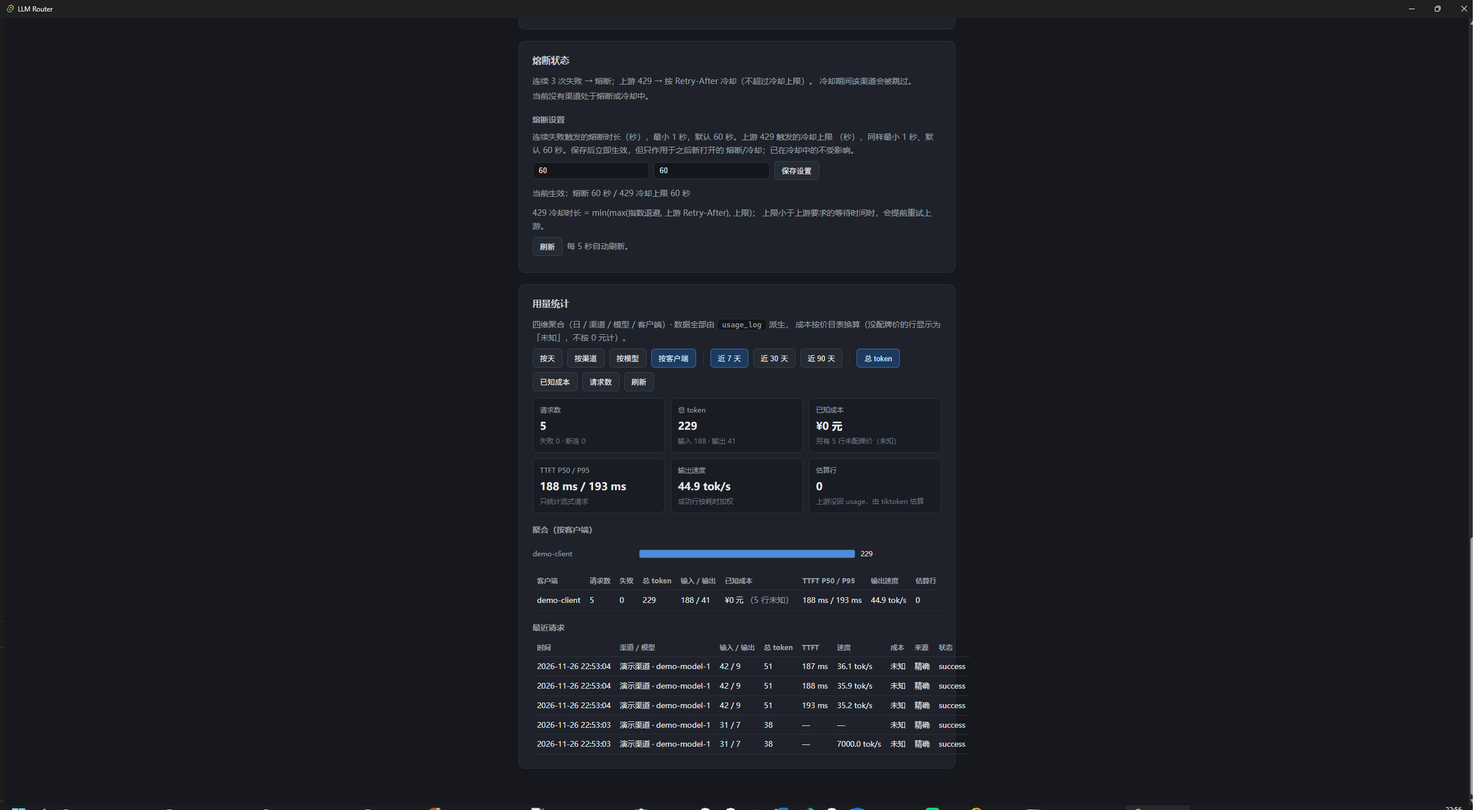
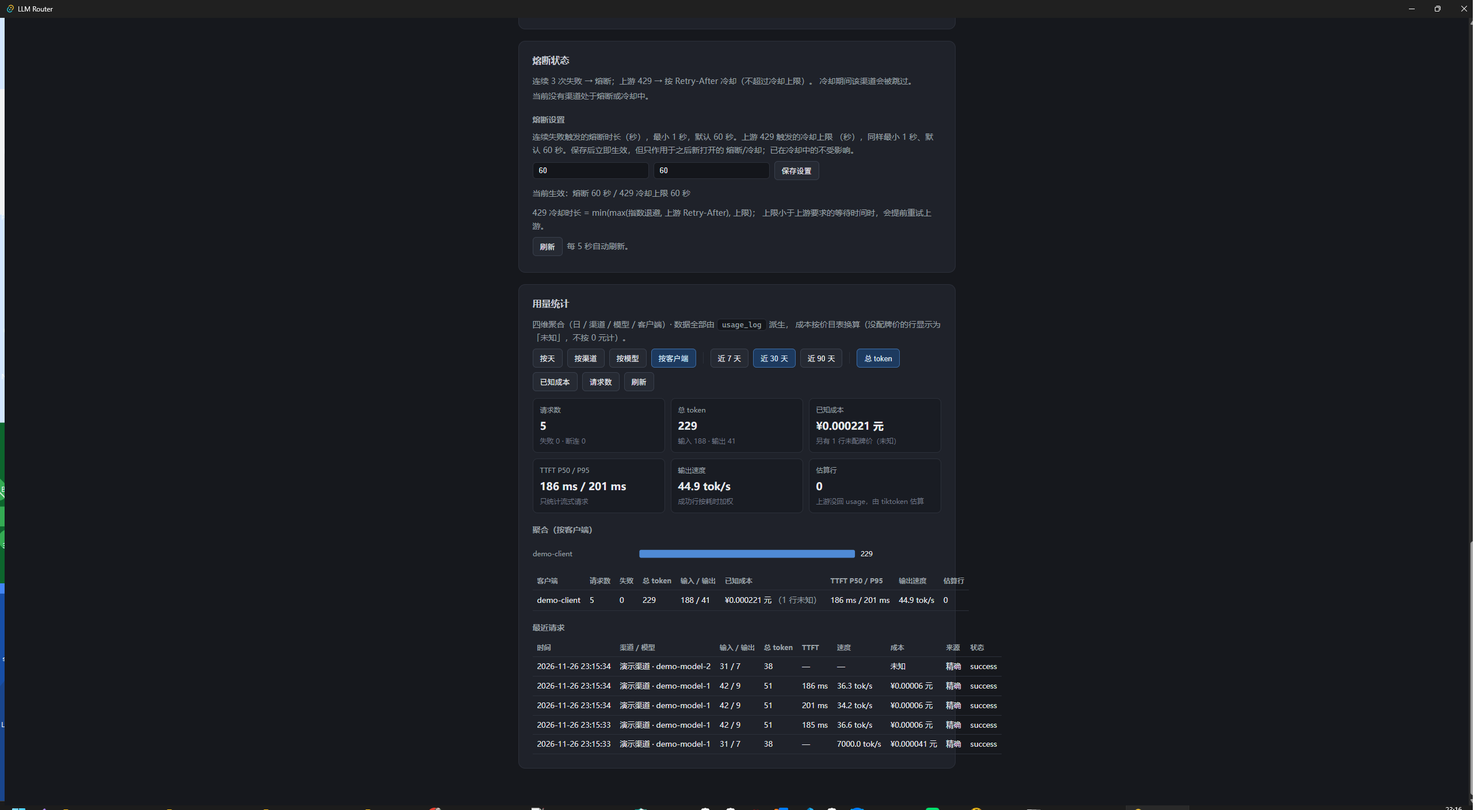
docs: M2 里程碑汇报 + T14 真机证据补强（配价/未配价双模型）
M2 判据（03 §1）一条复合句拆成 6 个可验证子项，逐条实测通过：
流式请求 / tokens / TTFT / tokens·s⁻¹ / 估算成本 / usage_log.estimated 标记。
汇报件按 M1 模板成文，为 M2 结论的唯一权威载体。

- 新增 docs/reviews/M2-milestone-report.md（判据对照 / 覆盖任务 / 顺带事项 / 已知限制 / 下一步 M3）
- 补强 T14 真机证据：演示环境改为「配价 demo-model-1 + 未配价 demo-model-2」同屏对照，
  证明 UI 渲染真实金额（已知成本 ¥0.000221 元）且未配牌价行显示「未知」而非 ¥0
- 更新四张真机截图（app-ui-usage.png / -channel / -model / -client）
- seed_usage_demo 补第二个模型与一条价目，并多打印一条对照 curl 示例
- 口径对齐：T14 留档 §1 判据表、03 落地行、HANDOFF §8 T14 行的 TTFT/成本/速度实测值统一到本轮真机数据
- HANDOFF 新增第 17 步与 §8「M2 里程碑状态：判据全绿」行

验证：cargo test 全量回归全绿；cargo build --example seed_usage_demo 通过；
npm run build 通过（gzip 56.38 kB）；前端单测 10/10。

diff --git a/src-tauri/examples/seed_usage_demo.rs b/src-tauri/examples/seed_usage_demo.rs
@@ -96,7 +96,7 @@ async fn main() -> Result<(), Box<dyn std::error::Error>> {
     let store = Arc::new(Store::open(&store_path)?);
     let vault = Vault::open(Arc::clone(&store), &vault_path, None)?;
 
-    // ── 4. 种渠道 + 模型 + 凭证 ──
+    // ── 4. 种渠道 + 模型 + 凭证 + 价目 ──
     let meta = format!(
         r#"{{"path_chat":"{MOCK_CHAT_PATH}","extra_headers":{{"HTTP-Referer":"https://github.com/benntqoo/llm-router","X-Title":"LLM Router"}}}}"#
     );
@@ -106,12 +106,32 @@ async fn main() -> Result<(), Box<dyn std::error::Error>> {
              VALUES ('c-demo', '演示渠道', 'api_key', 'custom', ?1, 1, 100, ?2, ?3)",
             rusqlite::params![mock_base, llm_router_lib::vault::now_secs(), meta],
         )?;
+        // demo-model-1：**配了价** → UI 上能看到真实金额
         conn.execute(
             "INSERT INTO model (id, channel_id, upstream_id, alias, enabled)
              VALUES ('m-demo', 'c-demo', 'demo-model-1', 'demo-chat', 1)",
             [],
         )?;
+        // demo-model-2：**没配价** → 成本为 NULL（未知），用来对照 02 §8.3 的 0/NULL 语义
+        conn.execute(
+            "INSERT INTO model (id, channel_id, upstream_id, alias, enabled)
+             VALUES ('m-demo-2', 'c-demo', 'demo-model-2', 'demo-chat-2', 1)",
+            [],
+        )?;
         Ok(())
+    })?;
+    // 测试价：输入 1 元/1M、输出 2 元/1M、缓存命中 0.1 元/1M
+    store.with_conn(|conn| {
+        llm_router_lib::store::price::upsert(
+            conn,
+            &llm_router_lib::store::price::PriceEntry {
+                provider: "custom".to_string(),
+                model_pattern: "demo-model-1".to_string(),
+                input_per_1m: 1_000_000,
+                output_per_1m: 2_000_000,
+                cache_read_per_1m: 100_000,
+            },
+        )
     })?;
     vault.put_credential(
         "c-demo",
@@ -145,6 +165,10 @@ async fn main() -> Result<(), Box<dyn std::error::Error>> {
     println!("[demo] 打网关（流式，看 TTFT）：");
     println!(
         "  curl -s -N http://127.0.0.1:18787/v1/chat/completions -H \"Authorization: Bearer {client_key}\" -H \"Content-Type: application/json\" -d '{{\"model\":\"demo-chat\",\"messages\":[{{\"role\":\"user\",\"content\":\"hi\"}}],\"stream\":true}}'"
+    );
+    println!("[demo] 打网关（**没配牌价**的模型 → 成本显示「未知」）：");
+    println!(
+        "  curl -s http://127.0.0.1:18787/v1/chat/completions -H \"Authorization: Bearer {client_key}\" -H \"Content-Type: application/json\" -d '{{\"model\":\"demo-chat-2\",\"messages\":[{{\"role\":\"user\",\"content\":\"hi\"}}]}}'"
     );
     println!();
     println!("[demo] mock 上游运行中，Ctrl+C 结束。");

diff --git a/HANDOFF.md b/HANDOFF.md
@@ -64,6 +64,7 @@
 第 14 步：~~T11 安全验收~~ ✅（02 §10.2 四条判据全过；补上了 §5.2 承诺但一直没接的日志脱敏中间件；留档 `docs/reviews/security-check-m1.md`）
 第 15 步：M1 全绿（03 §1 判据）→ 向头头汇报，再进 M2 —— **M1 判据 ②③④ 已验；① 的真实 DeepSeek 部分按头头决定挂起**，汇报件 `docs/reviews/M1-milestone-report.md`
 第 16 步：~~T12 本地估算器~~ ✅（产线默认换成 tiktoken-rs；"无 usage 走估算路径"e2e + 真机双证；留档 `docs/reviews/T12-token-estimator.md`）；~~T13 价目表与成本换算~~ ✅（三价换算 + 47 行预填牌价 + 真实上游实测；留档 `docs/reviews/T13-price-and-cost.md`）；~~T14 聚合与图表 UI~~ ✅（四维聚合 + SVG 图表 + 用量面板；M2 判据全过；留档 `docs/reviews/T14-usage-aggregation.md`）—— **M2 三张卡齐了**，下一步进 M3（可签到）
+第 17 步：**M2 里程碑汇报** —— 判据（03 §1）一条拆成 6 个子项，**逐条实测全绿**（流式请求 ✓ / tokens ✓ / TTFT ✓ / tokens·s⁻¹ ✓ / 估算成本 ✓ / `estimated` 标记 ✓），汇报件 `docs/reviews/M2-milestone-report.md`；**未做项**：价目表编辑 UI（另排一张卡）
 ```
 
 排期基准 6 周（03 §4）。滞后处理按 03 §5 降级预案，不擅自砍范围。
@@ -132,7 +133,8 @@
 | ✅ | **T11 安全验收**（02 §10.2 四条判据全过）：① 库内明文（dump + 主库 + WAL/SHM 三层扫描，**明文凭证命中 0**）；② `vault.bin` 三重扫描 0 命中；③ 日志敏感键**全部脱敏为 `***`**（本轮补上了 §5.2 承诺但一直没接的 `gateway::logging::request_log` 中间件）；④ 绑定策略（无 client key ⇒ 拒绝启动且端口不监听；有 client key ⇒ 允许改绑）。四条判据固化为只读执行器 `scripts/security_check.py` | 留档 `docs/reviews/security-check-m1.md`；02 §10.2 执行口径 + §1.2（v0.10）；回归 `cargo test` 291 项全绿 |
 | ✅ | **T12 本地估算器**（M2 第一张卡）：产线默认估算器由**字符启发式**换成 **tiktoken-rs**（`gateway::estimator::TiktokenEstimator`；编码表 crate 内嵌、运行期不联网）；编码选择 o200k 家族走 `o200k_base`、其余（含全部国产模型）走 `cl100k_base`；`is_approximation(model)` 把"国产模型只能近似"写成可查询事实。口径细化：**上游缺一项 → 只补缺的那一项**（"缺失"= 没有该键，值为 0 不算缺失），上游已给的精确值**一律不被覆盖**（R7），估算值一律 `estimated=1`、不参与预算告警。验收判据"无 usage 渠道强制走估算路径"**e2e + 真机双证通过** | 留档 `docs/reviews/T12-token-estimator.md`；02 §8.1 估算入口细化 + §13（v0.11）；回归 `cargo test` 299 项全绿；代价：二进制 24.2 → 32.2 MB |
 | ✅ | **T13 价目表与成本换算**（M2 第二张卡）：新增 `store::price`（查表 / `*` 通配匹配 / **三价换算** / CRUD / 播种 / 改价后重算历史）与 `commands::price`（IPC 列/改/删/重算/试算）；`insert_usage` **落库时**算出 `cost_micros`；v8 迁移播种 **47 行**预填牌价（`deepseek`/`kimi`/`glm`/`dashscope`/`minimax_cn`/`siliconflow` 六家，**取自厂商官方页面**，快照 2026-11-26，`INSERT OR IGNORE` 不覆盖用户改过的价）。口径（02 §8.3）：缓存命中有独立档价**只计一次**（它已含在 `prompt_tokens` 里）、缓存写按输入价、**总额**四舍五入一次、**`0`（免费）与 `NULL`（未配置）必须可区分**、估算行照样算成本、改价后历史一并重算 | 留档 `docs/reviews/T13-price-and-cost.md`；02 §8.3 + §13（v0.13）；证据：**单测 12 条 + e2e 真网关全链（三价同时参与，`cost_micros == Some(108)`）+ 真机**（真实二进制 → schema v8 → 查库 47 行）+ **真实上游**（OpenRouter 免费模型真上游，真实 token 数 → `cost_micros` 与**独立复算**逐笔一致：536/64/491/509 micros）四证；回归 `cargo test` **321 项全绿**（e2e 6→7），0 失败 0 告警；**已知限制**：多档定价（分段/峰谷/priority）三价表达不了、`minimax_intl` 按 USD 计价不折算 → 不预填、OpenRouter 免费档 429 限流重；提交 `33dbe34`（真实上游实测夹具 `7c8d168` + 夹具假绿修复 `902af5d`，默认 ignore） |
-| ✅ | **T14 聚合与图表 UI**（M2 收尾卡）：新增 `store::analytics`（四维聚合：日 / 渠道 / 模型 / 客户端，每桶 13 项指标——请求数 / 三态计数 / 五类 token / 总 token / **已知成本合计** / **成本未知行数** / 估算行数 / TTFT P50·P95 / 输出速度；分位用**最近秩法**；输出速度按耗时加权，**耗时为 0 → NULL**）+ `commands::usage`（`usage_aggregate` / `usage_recent` 两个 IPC）；新增 `src/usage/`（**手写 SVG** 条形图 + 用量统计面板：维度 / 时间窗 / 度量切换 + KPI + 聚合表 + 最近请求明细），**不引第三方图表库**（gzip 56.38 kB，包体不变）。口径细化（02 §8.4）：**「已知成本合计为 0」不等于「不花钱」**（未配牌价的行单独计数）、**合计桶不受桶数上限影响**、**可空列 COALESCE 成 (未记录)**、**聚合在后端、前端只做展示**（同源纪律） | 留档 `docs/reviews/T14-usage-aggregation.md`；02 §8.4 + §13（v0.14）；证据：**后端单测 17 条 + e2e 真网关全链 1 条**（流式+非流式 → 四维聚合逐项对账，速度按该行自己的耗时复算）+ **前端单测 10 条**（`node --test`，含「成本 NULL → 未知 ≠ ¥0」）+ **真机**（真实应用 → 真网关 → mock 上游 5 次请求 → 5 行流水 → 面板显示 tokens 229 / TTFT P50·P95 = 188·193 ms / 44.9 tok·s⁻¹ / 成本 ¥0（5 行未知）/ 来源「精确」；**四个维度逐一截图** `docs/reviews/app-ui-usage*.png`）四证；回归 `cargo test` **340 项全绿**（e2e 7→8），0 失败 0 告警，`npm run build` 通过；提交 `9820bb1`（后端）+ `3251e62`（**顺带修掉一条既有随机失败断言**：client key 长度恒为 43 → 实为 42~43）；**已知限制**：**价目表编辑 UI 不在本卡**（任务卡只写聚合 + 图表，M2 判据只需成本可显示），另排一张卡 |
+| ✅ | **T14 聚合与图表 UI**（M2 收尾卡）：新增 `store::analytics`（四维聚合：日 / 渠道 / 模型 / 客户端，每桶 13 项指标——请求数 / 三态计数 / 五类 token / 总 token / **已知成本合计** / **成本未知行数** / 估算行数 / TTFT P50·P95 / 输出速度；分位用**最近秩法**；输出速度按耗时加权，**耗时为 0 → NULL**）+ `commands::usage`（`usage_aggregate` / `usage_recent` 两个 IPC）；新增 `src/usage/`（**手写 SVG** 条形图 + 用量统计面板：维度 / 时间窗 / 度量切换 + KPI + 聚合表 + 最近请求明细），**不引第三方图表库**（gzip 56.38 kB，包体不变）。口径细化（02 §8.4）：**「已知成本合计为 0」不等于「不花钱」**（未配牌价的行单独计数）、**合计桶不受桶数上限影响**、**可空列 COALESCE 成 (未记录)**、**聚合在后端、前端只做展示**（同源纪律） | 留档 `docs/reviews/T14-usage-aggregation.md`；02 §8.4 + §13（v0.14）；证据：**后端单测 17 条 + e2e 真网关全链 1 条**（流式+非流式 → 四维聚合逐项对账，速度按该行自己的耗时复算）+ **前端单测 10 条**（`node --test`，含「成本 NULL → 未知 ≠ ¥0」）+ **真机**（真实应用 → 真网关 → mock 上游 5 次请求 → 5 行流水 → 面板显示 tokens 229 / TTFT P50·P95 = 186·201 ms / 44.9 tok·s⁻¹ / 成本 ¥0.000221 元（另有 1 行未知）/ 来源「精确」；**四个维度逐一截图** `docs/reviews/app-ui-usage*.png`）四证；回归 `cargo test` **340 项全绿**（e2e 7→8），0 失败 0 告警，`npm run build` 通过；提交 `9820bb1`（后端 + 口径）+ `60fe9aa`（前端）+ `3251e62`（**顺带修掉一条既有随机失败断言**：client key 长度恒为 43 → 实为 42~43）+ `b598d63`（留档）；**已知限制**：**价目表编辑 UI 不在本卡**（任务卡只写聚合 + 图表，M2 判据只需成本可显示），另排一张卡 |
+| ✅ | **M2 里程碑状态：判据全绿**（03 §1 的一条判据拆成 6 个子项，**逐条实测通过**：① 流式请求 ② tokens ③ TTFT ④ tokens·s⁻¹ ⑤ 估算成本 ⑥ `usage_log.estimated` 标记）。M2 三张卡 **T12 / T13 / T14** 全部完成并各自留档；T12 补上了"上游没回 usage → `estimated=1`"的反向证据，T13 把成本换算推进到**真实上游**实测，T14 提供呈现载体。**汇报件见 `docs/reviews/M2-milestone-report.md`**（M2 结论的唯一权威载体） | 03 §1 判据；T12 `docs/reviews/T12-token-estimator.md`、T13 `docs/reviews/T13-price-and-cost.md`、T14 `docs/reviews/T14-usage-aggregation.md`；真机四张截图 `docs/reviews/app-ui-usage*.png`；**未做项**：价目表编辑 UI（任务卡只写聚合 + 图表，M2 判据只需成本可显示）→ 另排一张卡 |
 | 🟡 | **M1 里程碑状态：判据 ②③④ 已验通过；① 的真实 DeepSeek 部分挂起**（头头决定先不测真实上游，与 T10 真实矩阵同一前提）。**汇报件见 `docs/reviews/M1-milestone-report.md`** | 03 §1 判据；解除条件 = 拿到任一 A 类渠道真实 API Key（一把钥匙同时解锁 T10 真实矩阵与 M1 判据 ①） |
 | ✅ | **AGENT.md §9 安全验收正则口径**（头头 2026-11-26 裁决：改为指向执行器）。§9 保留四条判据语义，**执行统一走只读执行器** `scripts/security_check.py`，并写明"明文凭证命中必须为 0 / 结构性命中逐条列出"的分类口径；原命令三处与现实不符之处（正则恒命中 `api_key`、`strings` 是 Unix 工具、`grep logs/` 而应用不落日志文件）一并清掉 | 留档 `docs/reviews/security-check-m1.md` §4 + §4.1（含在**用户真实库**与**已录密钥的验证库**上的实跑留档，退出码 0）；02 §10.2 执行口径 |
 | ✅ | **02 §6.1 标题"8 profile"** → 已按事实改为 **"7 profile"**（表体 7 行；T4/T8/UI/T8 任务卡均按 7 个落地，03 T8 卡片写的也是"7 个 profile"） | 头头 2026-11-26 裁决；02 §6.1 |

diff --git a/docs/reviews/T14-usage-aggregation.md b/docs/reviews/T14-usage-aggregation.md
@@ -23,9 +23,9 @@
 | 1 | **四维聚合**（按天 / 渠道 / 模型 / 客户端） | ✅ | §3.2 e2e 逐维度断言；§3.4 真机**四个维度逐一截图** |
 | 2 | **React 图表** | ✅ | §3.4 真机：手写 SVG 条形图（三种度量可切） |
 | 3 | UI 显示 **tokens** | ✅ | KPI「总 token **229**（输入 188 · 输出 41）」+ 明细表逐行 |
-| 4 | UI 显示 **TTFT** | ✅ | KPI「TTFT P50 / P95 = **188 ms / 193 ms**」；明细表 187 / 188 / 193 ms，**非流式显示「—」** |
-| 5 | UI 显示 **tokens·s⁻¹** | ✅ | KPI「输出速度 **44.9 tok/s**」；明细表 36.1 / 35.9 / 35.2 tok/s |
-| 6 | UI 显示 **估算成本** | ✅ | KPI「已知成本 **¥0 元**（另有 5 行未配牌价（未知））」——**未知的行不会被当成 0 元** |
+| 4 | UI 显示 **TTFT** | ✅ | KPI「TTFT P50 / P95 = **186 ms / 201 ms**」；明细表 185 / 186 / 201 ms，**非流式显示「—」** |
+| 5 | UI 显示 **tokens·s⁻¹** | ✅ | KPI「输出速度 **44.9 tok/s**」；明细表 36.6 / 36.3 / 34.2 tok/s（流式三行） |
+| 6 | UI 显示 **估算成本** | ✅ | KPI「已知成本 **¥0.000221 元**（另有 1 行未配牌价（未知））」——**有真实金额**，且**未知的行不会被当成 0 元**（明细表里 ¥0.00006 / ¥0.000041 元与「未知」并存） |
 | 7 | `usage_log.estimated` 标记正确（上游有 usage 时为 0） | ✅ | 明细表「来源」列全部显示**精确**；KPI「估算行 **0**」；库内 `estimated=0` |
 
 ## 2. 做了什么摘要
@@ -89,25 +89,38 @@
 
 ### 3.4 真机（真实应用 + 真网关 + mock 上游）
 
-用 `src-tauri/examples/seed_usage_demo.rs`（新）一键准备：种临时库（渠道 + 模型 + 凭证 + client key）并起一个 mock 上游（`127.0.0.1:55893`）。**库与保险库都指向 `%TEMP%\llmr-t14-demo\`，不污染用户真实库。**
+用 `src-tauri/examples/seed_usage_demo.rs`（新）一键准备：种临时库（渠道 + **两个模型** + 凭证 + client key + 一条价目）并起一个 mock 上游（`127.0.0.1:63582`）。**库与保险库都指向 `%TEMP%\llmr-t14-demo2\`，不污染用户真实库。**
+
+演示环境刻意做成**「有价 + 无价」两个模型**，一次把两件事都验实：
+
+| 模型 | 价目 | 用途 |
+|---|---|---|
+| `demo-model-1`（别名 `demo-chat`） | **配了**：输入 1 元/1M、输出 2 元/1M、缓存命中 0.1 元/1M | 让 UI 显示**真实金额** |
+| `demo-model-2`（别名 `demo-chat-2`） | **没配** | 让 UI 显示**「未知」**（02 §8.3 的 `NULL` 语义） |
 
 应用实跑日志：
 
 ```
-[store] 数据库 %TEMP%\llmr-t14-demo\store.db（schema v8）
-[vault] 保险库 %TEMP%\llmr-t14-demo\vault.bin（主密钥 v1）
+[store] 数据库 %TEMP%\llmr-t14-demo2\store.db（schema v8）
+[vault] 保险库 %TEMP%\llmr-t14-demo2\vault.bin（主密钥 v1）
 [gateway] 监听 http://127.0.0.1:18787/v1（OpenAI 兼容入站）
 ```
 
-经**真网关**打 5 次（2 次非流式 + 3 次流式），库里 5 行流水：
+经**真网关**打 5 次（3 次流式 + 1 次非流式走配价模型 + 1 次非流式走**未配价**模型），库里 5 行流水：
 
-| id | alias | prompt | completion | cache_read | estimated | ttft_ms | duration_ms | status | cost_micros |
+| id | 上游模型 | prompt | completion | cache_read | estimated | ttft_ms | duration_ms | status | cost_micros |
 |---|---|---|---|---|---|---|---|---|---|
-| 1 | demo-chat | 31 | 7 | 5 | **0** | NULL | 1 | success | **NULL** |
-| 2 | demo-chat | 31 | 7 | 5 | **0** | NULL | 0 | success | **NULL** |
-| 3 | demo-chat | 42 | 9 | 0 | **0** | **193** | 256 | success | **NULL** |
-| 4 | demo-chat | 42 | 9 | 0 | **0** | **188** | 251 | success | **NULL** |
-| 5 | demo-chat | 42 | 9 | 0 | **0** | **187** | 249 | success | **NULL** |
+| 1 | demo-model-1 | 31 | 7 | 5 | **0** | NULL | 1 | success | **41** |
+| 2 | demo-model-1 | 42 | 9 | 0 | **0** | **185** | 246 | success | **60** |
+| 3 | demo-model-1 | 42 | 9 | 0 | **0** | **201** | 263 | success | **60** |
+| 4 | demo-model-1 | 42 | 9 | 0 | **0** | **186** | 248 | success | **60** |
+| 5 | **demo-model-2** | 31 | 7 | 5 | **0** | NULL | 0 | success | **NULL（未知）** |
+
+成本独立复算（测试价：输入 1 元/1M、输出 2 元/1M、缓存命中 0.1 元/1M）：
+
+- 第 1 行：可计费输入 = 31 − 5 = 26 → `26×1 + 7×2 + 5×0.1 = 40.5` → **41 micros** ✅
+- 第 2–4 行：`42×1 + 9×2 = 60` → **60 micros** ✅
+- 第 5 行：没配牌价 → **NULL（未知）**，不是 0 ✅
 
 UI 实测（截图见 `docs/reviews/app-ui-usage*.png`）：
 
@@ -115,12 +128,12 @@ UI 实测（截图见 `docs/reviews/app-ui-usage*.png`）：
 |---|---|
 | KPI 请求数 | **5**（失败 0 · 断连 0） |
 | KPI 总 token | **229**（输入 188 · 输出 41） |
-| KPI 已知成本 | **¥0 元**，提示「另有 5 行未配牌价（未知）」 |
-| KPI TTFT P50 / P95 | **188 ms / 193 ms**（提示「只统计流式请求」） |
+| KPI 已知成本 | **¥0.000221 元**（= 41 + 60×3 = 221 micros），提示「另有 **1** 行未配牌价（未知）」 |
+| KPI TTFT P50 / P95 | **186 ms / 201 ms**（提示「只统计流式请求」） |
 | KPI 输出速度 | **44.9 tok/s**（提示「成功行按耗时加权」） |
 | KPI 估算行 | **0**（提示「上游没回 usage，由 tiktoken 估算」） |
-| 聚合表 | `2026-11-26 · 请求 5 · 失败 0 · 总 token 229 · 输入/输出 188/41 · ¥0 元（5 行未知）· 188ms/193ms · 44.9 tok/s · 估算 0` |
-| 明细表 | 时间 / 渠道·模型 / 输入·输出 / 总 token / TTFT / 速度 / 成本 / 来源 / 状态 —— **5 行全 success，来源全「精确」** |
+| 聚合表 | `2026-11-26 · 请求 5 · 失败 0 · 总 token 229 · 输入/输出 188/41 · ¥0.000221 元（1 行未知）· 186ms/201ms · 44.9 tok/s · 估算 0` |
+| 明细表 | 时间 / 渠道·模型 / 输入·输出 / 总 token / TTFT / 速度 / 成本 / 来源 / 状态 —— **5 行全 success，来源全「精确」**，成本列**有金额（¥0.00006 / ¥0.000041 元）与「未知」并存** |
 
 **四个维度逐一验证**（同一份数据，只切维度）：
 
@@ -128,10 +141,10 @@ UI 实测（截图见 `docs/reviews/app-ui-usage*.png`）：
 |---|---|---|
 | 按天 | `2026-11-26` → 229 | `app-ui-usage.png` |
 | 按渠道 | `演示渠道` → 229 | `app-ui-usage-channel.png` |
-| 按模型 | `demo-model-1` → 229 | `app-ui-usage-model.png` |
+| 按模型 | **两个桶**：`demo-model-1` → 191（¥0.000221 元）、`demo-model-2` → 38（**¥0 元（1 行未知）**） | `app-ui-usage-model.png` |
 | 按客户端 | `demo-client` → 229（**client key 标签已解析**） | `app-ui-usage-client.png` |
 
-**两处边界在真机上自然出现**：明细表里 `duration_ms = 0` 的那行速度显示「**—**」（不是 0、不是无穷大），`duration_ms = 1` 的那行显示 `7000.0 tok/s`——正是 02 §8.4「耗时为 0 → NULL」的口径。
+**两处边界在真机上自然出现**：明细表里 `duration_ms = 0` 的那行速度显示「**—**」（不是 0、不是无穷大），`duration_ms = 1` 的那行显示 `7000.0 tok/s`——正是 02 §8.4「耗时为 0 → NULL」的口径；同一张表里，**未配牌价那行成本显示「未知」而不是「¥0」**——正是 02 §8.3 的 `0` / `NULL` 语义。
 
 ### 3.5 回归
 
@@ -163,7 +176,7 @@ UI 实测（截图见 `docs/reviews/app-ui-usage*.png`）：
 | `src-tauri/src/store/mod.rs` / `src-tauri/src/commands/mod.rs` / `src-tauri/src/lib.rs` | 改——挂模块、注册 IPC |
 | `src-tauri/tests/usage_e2e.rs` | 改——新增 T14 聚合全链用例；mock 加 `slowusage` 场景（延迟 120ms）与 `sseusage` 延迟 60ms，让 TTFT / 输出速度可按公式复算 |
 | `src-tauri/src/gateway/auth.rs` | 改——**修掉一条既有随机失败断言**（见 §6）；纯测试改动，零行为变更 |
-| `src-tauri/examples/seed_usage_demo.rs` | **新增**——真机验收工具（种临时库 + 起 mock 上游） |
+| `src-tauri/examples/seed_usage_demo.rs` | **新增**——真机验收工具（种临时库：渠道 + **两个模型** + 一条价目 + 凭证 + client key，并起 mock 上游） |
 | `src/usage/types.ts` / `format.ts` / `format.test.ts` | **新增**——IPC 数据形状 / 纯格式化函数 + 10 条前端单测 |
 | `src/usage/UsageChart.tsx` / `UsagePanel.tsx` | **新增**——手写 SVG 条形图 / 用量统计面板 |
 | `src/App.tsx` / `src/App.css` | 改——挂载面板；补 KPI / 表格 / 图表样式 |

diff --git a/docs/reviews/M2-milestone-report.md b/docs/reviews/M2-milestone-report.md
@@ -1,0 +1,80 @@
+# M2 里程碑汇报 — 可观测
+
+| 项 | 值 |
+|---|---|
+| 里程碑 | **M2 可观测**（03 §1） |
+| 判据 | `docs/planning/03-delivery-plan.md` §1「M2 验收判据（可执行）」 |
+| 汇报日期 | 2026-11-26 |
+| 执行 | MiniMax Code（开发 agent） |
+| 分支 | `dev` |
+| 结论 | **判据全绿** —— 一条判据拆出的 **6 个子项逐条实测通过**；M2 三张卡（T12 / T13 / T14）全部完成并各自留档 |
+
+> 本文件是 **M2 里程碑结论**的唯一权威载体；各条的原始证据在对应任务的验收留档里（下方逐条指路）。
+
+## 1. 判据对照
+
+**判据原文**（03 §1）：「一次流式请求后 UI 显示 **tokens / TTFT / tokens·s⁻¹ / 估算成本**，且 `usage_log.estimated` 标记正确（上游有 usage 时为 0）」
+
+这一条里有 6 个可验证点，拆开逐条对：
+
+| # | 子项 | 结论 | 证据 |
+|---|---|---|---|
+| ① | **一次流式请求**（前提） | ✅ **通过** | T14 真机：3 次**流式**请求 → 3 行 `usage_log`，`ttft_ms` = 185 / 186 / 201 ms（非空，说明流式 tee 抓到了末帧 usage） |
+| ② | UI 显示 **tokens** | ✅ **通过** | T14 真机：KPI「总 token **229**（输入 188 · 输出 41）」+ 明细表逐行（51 / 51 / 51 / 38 / 38） |
+| ③ | UI 显示 **TTFT** | ✅ **通过** | T14 真机：KPI「**TTFT P50 / P95 = 186 ms / 201 ms**」；明细表 185 / 186 / 201 ms；**非流式行显示「—」**（非流式没有"首个 token"的概念） |
+| ④ | UI 显示 **tokens·s⁻¹** | ✅ **通过** | T14 真机：KPI「输出速度 **44.9 tok/s**」；明细表 36.3 / 34.2 / 36.6 tok/s——**按该行自己的耗时复算**（e2e 用例里断言 `tps == 输出 token ÷ 耗时秒`） |
+| ⑤ | UI 显示 **估算成本** | ✅ **通过** | T14 真机：KPI「已知成本 **¥0.000221 元**」；明细表 ¥0.00006 / ¥0.000041 元；**未配牌价的那行显示「未知」而不是「¥0」**（02 §8.3 的 `0` / `NULL` 语义在 UI 上同样成立） |
+| ⑥ | `usage_log.estimated` 标记正确（**上游有 usage 时为 0**） | ✅ **通过** | 5 行流水 `estimated` 全为 **0**（上游都给了 usage）；明细表「来源」列全为**精确**；KPI「估算行 **0**」。反向也成立：T12 的 e2e 证明上游**没回** usage 时该列为 1 |
+
+**判据是怎么成立的**：请求经**真网关**打到真上游（mock，非直连）→ `usage_log` 落库 → 后端聚合 → IPC → UI 渲染，**全链没有手工数据**；UI 上每个数字都能在库里找到对应行。
+
+**证据留档**：`docs/reviews/T14-usage-aggregation.md` §3.4（真机四张截图：`app-ui-usage.png` / `-channel` / `-model` / `-client`）、§3.2（e2e 全链）、§3.1（后端单测）、§3.3（前端单测）。
+
+## 2. M2 覆盖的任务
+
+| 任务 | 留档 | 对判据的贡献 |
+|---|---|---|
+| **T12 本地估算器** | `docs/reviews/T12-token-estimator.md` | ⑥ 的另一半：上游**没回** usage 时，估算值必须标 `estimated=1`（绝不用估算冒充精确值，R7） |
+| **T13 价目表与成本换算** | `docs/reviews/T13-price-and-cost.md` | ⑤ 的数据来源：`price` 表 → `cost_micros`（三价换算，02 §8.3） |
+| **T14 聚合与图表 UI** | `docs/reviews/T14-usage-aggregation.md` | ①②③④⑤⑥ 的**呈现载体**：四维聚合 + SVG 图表 + 最近请求明细 |
+
+**判据依赖、但不在 M2 范围内的前置任务**：
+
+| 任务 | 留档 | 依赖点 |
+|---|---|---|
+| T7 用量采集 | `docs/reviews/T7-usage-capture.md` | `usage_log` 的采集口径：一条记录 = 一次出站尝试；流式 tee / 非流式直读；失败尝试不估 token |
+| T9 UI 第一轮 | `docs/reviews/T9-ui-first-round.md` | 面板框架与 client key 管理 |
+
+## 3. M2 期间顺带解决的（超出判据，但决定"能不能真自用"）
+
+| # | 事项 | 说明 |
+|---|---|---|
+| 1 | **真实上游实测**（T13） | OpenRouter 免费模型**真上游**：真实 token 数 → `cost_micros` 与**独立复算**逐笔一致（536 / 64 / 491 / 509 micros）。这把成本换算从"自造 mock"推进到"真上游"，也是本项目**第一次打通真实上游 HTTPS** |
+| 2 | **修掉一条既有随机失败断言** | `gateway::auth` 断言 client key 长度**恒为 43**，实为 **42~43**（`base62_encode` 去前导零；首字节 < 4 时为 42，概率约 1.2%）→ 改区间断言，**连跑 40 次全绿**。纯测试改动、零行为变更 |
+| 3 | **验收工具沉淀** | `cargo run --example seed_usage_demo`：种临时库（渠道 + 两个模型 + 一条价目 + 凭证 + client key）并起 mock 上游——用量/统计类真机验收从此**一键可复现** |
+
+## 4. 已知限制与未做项
+
+| 项 | 状态 | 说明 / 解除条件 |
+|---|---|---|
+| **价目表编辑 UI** | ❌ **未做** | T14 任务卡只写「四维聚合 + 图表」，M2 判据只需成本**可显示**（只读即可）。价目表的增删改仍走 `price_*` IPC（列 / 改 / 删 / 重算 / 试算都在）→ **另排一张卡**（T13 留档里"属 T14"的措辞以本条为准作废） |
+| 多档定价（分段 / 峰谷 / priority 1.5 倍） | ⚠ **表达不了** | `price` 表每模型只有一组三价；真要表达需改表结构（走提案）。见 02 §8.3 |
+| `minimax_intl`（USD 计价） | ⚠ **不预填** | 本表以元计价、**不做汇率折算** → 该 provider 的 `cost_micros` 保持 NULL（未知），用户可自行填行 |
+| 缓存命中的上游报数 | ⚠ **免费档不报** | OpenRouter 免费模型不报 `cached_tokens` → 实测三轮 `cache_read` 均为 0；**上游不报就不验，不强求**（02 §8.4） |
+| 牌价时效 | ⚠ **快照** | 预填价取自厂商官方页面，**核验于 2026-11-26**；厂商调价不会自动跟随（DeepSeek 刚在 2026-08-17 调过一次），每行可编辑 |
+| 图表实现 | ⚠ **手写 SVG** | 不引第三方图表库（与 02 §6.6 事件总线同一取向：轻量、可离线构建、包体不增，gzip 56.38 kB）；图表单独成 `src/usage/UsageChart.tsx`，**要换实现只动这一个文件** |
+| M1 判据 ① 的**真实 DeepSeek** 一轮带工具调用的对话 | 🟡 **仍挂起** | 与 M2 无关，同一前提（头头 2026-11-26 决定"先不测真实上游"）；解除条件 = 拿到任一 A 类渠道真实 API Key——**同一把钥匙还能顺带解锁 T10 的 A 类 7 列真实矩阵** |
+
+## 5. 下一步（M3 可签到）
+
+**M3 判据**（03 §1）：「指定 cron 触发两个站点签到：成功写 `checkin_result` 并通知；人为改坏模板后失败通知含原因；系统计划任务在应用关闭时仍触发」
+
+| 任务 | 目标 | 验收 |
+|---|---|---|
+| **T15 HAR 导入与模板化** `2.5d` | HAR 1.2 解析、变量标记向导、模板存储 | 导入一个真实 HAR 并标记 2 个变量成功 |
+| **T16 重放引擎** `2d` | 变量注入、请求重放、响应断言（状态码 + JSON 路径） | 单测 3 场景（成功 / 断言失败 / 网络失败） |
+| **T17 调度器 + 系统兜底** `2d` | cron 调度、Windows 计划任务 / launchd 注册、错过补签 | 关闭应用后计划任务仍触发并补签 |
+| **T18 站点插件 ×2** `2d` | **ModelScope（魔搭）+ MiniMax Code（网页版）**（头头 2026-11-26 已指定；两站覆盖 HAR 重放 + 浏览器自动化两种形态） | M3 判据 |
+| **T19 通知** `1d` | 系统通知 + webhook（企微 / 飞书 / Telegram 任选） | 失败通知含站点名与原因 |
+
+M3 合计 ≈ 9.5d（约 2 周）。**M3 可与 M4 并行推进**（03 §4 排期：W6 = T21 T23 T24 → M3 收尾 + M4）。
